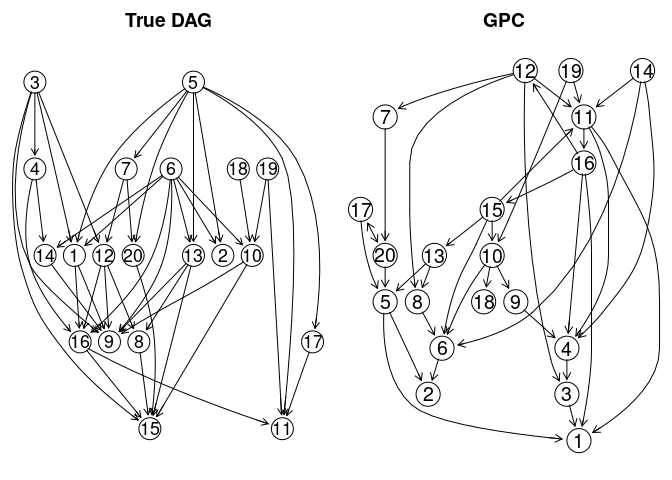
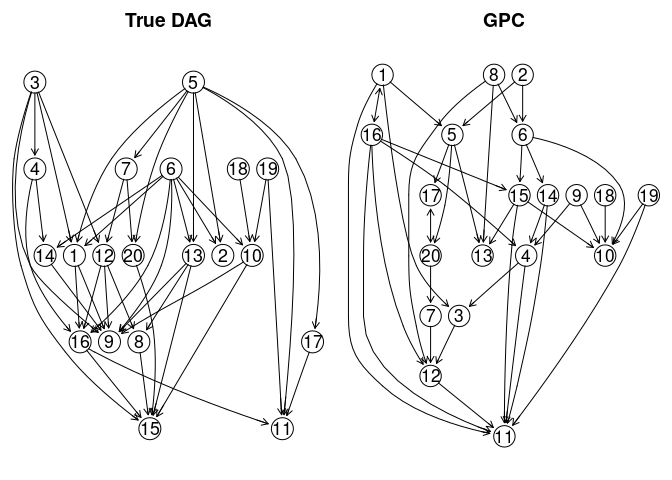
update

diff --git a/Demo/Demo.md b/Demo/Demo.md
@@ -248,7 +248,125 @@ GPCfit <- pc(suffStat = list(C = cor(ordinal_data), n = N),
              alpha = 0.05,
              indepTest = gaussCItest,
              labels = colnames(ordinal_data))
+# GPC algorithm (significance level: 0.05) (bnlearn implementation)
+GPCfit <- amat(pc.stable(as.data.frame(ordinal_data), alpha = 0.05, test = "zf"))
 ```
+
+    ## Warning in vstruct.apply(arcs = arcs, vs = vs, nodes = nodes, debug = debug):
+    ## vstructure 4 -> 16 <- 12 is not applicable, because one or both arcs are
+    ## oriented in the opposite direction.
+
+    ## Warning in vstruct.apply(arcs = arcs, vs = vs, nodes = nodes, debug = debug):
+    ## vstructure 1 -> 16 <- 15 is not applicable, because one or both arcs are
+    ## oriented in the opposite direction.
+
+    ## Warning in vstruct.apply(arcs = arcs, vs = vs, nodes = nodes, debug = debug):
+    ## vstructure 7 -> 12 <- 11 is not applicable, because one or both arcs are
+    ## oriented in the opposite direction.
+
+    ## Warning in vstruct.apply(arcs = arcs, vs = vs, nodes = nodes, debug = debug):
+    ## vstructure 1 -> 16 <- 4 is not applicable, because one or both arcs are oriented
+    ## in the opposite direction.
+
+    ## Warning in vstruct.apply(arcs = arcs, vs = vs, nodes = nodes, debug = debug):
+    ## vstructure 3 -> 4 <- 14 is not applicable, because one or both arcs are oriented
+    ## in the opposite direction.
+
+    ## Warning in vstruct.apply(arcs = arcs, vs = vs, nodes = nodes, debug = debug):
+    ## vstructure 8 -> 6 <- 15 is not applicable, because one or both arcs are oriented
+    ## in the opposite direction.
+
+    ## Warning in vstruct.apply(arcs = arcs, vs = vs, nodes = nodes, debug = debug):
+    ## vstructure 10 -> 15 <- 11 is not applicable, because one or both arcs are
+    ## oriented in the opposite direction.
+
+    ## Warning in vstruct.apply(arcs = arcs, vs = vs, nodes = nodes, debug = debug):
+    ## vstructure 10 -> 19 <- 11 is not applicable, because one or both arcs are
+    ## oriented in the opposite direction.
+
+    ## Warning in vstruct.apply(arcs = arcs, vs = vs, nodes = nodes, debug = debug):
+    ## vstructure 8 -> 12 <- 11 is not applicable, because one or both arcs are
+    ## oriented in the opposite direction.
+
+    ## Warning in vstruct.apply(arcs = arcs, vs = vs, nodes = nodes, debug = debug):
+    ## vstructure 12 -> 8 <- 13 is not applicable, because one or both arcs are
+    ## oriented in the opposite direction.
+
+    ## Warning in vstruct.apply(arcs = arcs, vs = vs, nodes = nodes, debug = debug):
+    ## vstructure 5 -> 1 <- 16 is not applicable, because one or both arcs are oriented
+    ## in the opposite direction.
+
+    ## Warning in vstruct.apply(arcs = arcs, vs = vs, nodes = nodes, debug = debug):
+    ## vstructure 2 -> 5 <- 13 is not applicable, because one or both arcs are oriented
+    ## in the opposite direction.
+
+    ## Warning in vstruct.apply(arcs = arcs, vs = vs, nodes = nodes, debug = debug):
+    ## vstructure 6 -> 14 <- 11 is not applicable, because one or both arcs are
+    ## oriented in the opposite direction.
+
+    ## Warning in vstruct.apply(arcs = arcs, vs = vs, nodes = nodes, debug = debug):
+    ## vstructure 4 -> 16 <- 15 is not applicable, because one or both arcs are
+    ## oriented in the opposite direction.
+
+    ## Warning in vstruct.apply(arcs = arcs, vs = vs, nodes = nodes, debug = debug):
+    ## vstructure 11 -> 15 <- 13 is not applicable, because one or both arcs are
+    ## oriented in the opposite direction.
+
+    ## Warning in vstruct.apply(arcs = arcs, vs = vs, nodes = nodes, debug = debug):
+    ## vstructure 6 -> 8 <- 12 is not applicable, because one or both arcs are oriented
+    ## in the opposite direction.
+
+    ## Warning in vstruct.apply(arcs = arcs, vs = vs, nodes = nodes, debug = debug):
+    ## vstructure 5 -> 1 <- 11 is not applicable, because one or both arcs are oriented
+    ## in the opposite direction.
+
+    ## Warning in vstruct.apply(arcs = arcs, vs = vs, nodes = nodes, debug = debug):
+    ## vstructure 4 -> 14 <- 6 is not applicable, because one or both arcs are oriented
+    ## in the opposite direction.
+
+    ## Warning in vstruct.apply(arcs = arcs, vs = vs, nodes = nodes, debug = debug):
+    ## vstructure 4 -> 9 <- 10 is not applicable, because one or both arcs are oriented
+    ## in the opposite direction.
+
+    ## Warning in vstruct.apply(arcs = arcs, vs = vs, nodes = nodes, debug = debug):
+    ## vstructure 1 -> 3 <- 12 is not applicable, because one or both arcs are oriented
+    ## in the opposite direction.
+
+    ## Warning in vstruct.apply(arcs = arcs, vs = vs, nodes = nodes, debug = debug):
+    ## vstructure 1 -> 16 <- 12 is not applicable, because one or both arcs introduce
+    ## cycles in the graph.
+
+    ## Warning in vstruct.apply(arcs = arcs, vs = vs, nodes = nodes, debug = debug):
+    ## vstructure 3 -> 1 <- 5 is not applicable, because one or both arcs are oriented
+    ## in the opposite direction.
+
+    ## Warning in vstruct.apply(arcs = arcs, vs = vs, nodes = nodes, debug = debug):
+    ## vstructure 9 -> 4 <- 11 is not applicable, because one or both arcs are oriented
+    ## in the opposite direction.
+
+    ## Warning in vstruct.apply(arcs = arcs, vs = vs, nodes = nodes, debug = debug):
+    ## vstructure 5 -> 2 <- 6 is not applicable, because one or both arcs are oriented
+    ## in the opposite direction.
+
+    ## Warning in vstruct.apply(arcs = arcs, vs = vs, nodes = nodes, debug = debug):
+    ## vstructure 10 -> 15 <- 16 is not applicable, because one or both arcs are
+    ## oriented in the opposite direction.
+
+    ## Warning in vstruct.apply(arcs = arcs, vs = vs, nodes = nodes, debug = debug):
+    ## vstructure 13 -> 15 <- 16 is not applicable, because one or both arcs are
+    ## oriented in the opposite direction.
+
+    ## Warning in vstruct.apply(arcs = arcs, vs = vs, nodes = nodes, debug = debug):
+    ## vstructure 3 -> 4 <- 9 is not applicable, because one or both arcs are oriented
+    ## in the opposite direction.
+
+    ## Warning in vstruct.apply(arcs = arcs, vs = vs, nodes = nodes, debug = debug):
+    ## vstructure 10 -> 15 <- 13 is not applicable, because one or both arcs are
+    ## oriented in the opposite direction.
+
+    ## Warning in vstruct.apply(arcs = arcs, vs = vs, nodes = nodes, debug = debug):
+    ## vstructure 12 -> 16 <- 15 is not applicable, because one or both arcs are
+    ## oriented in the opposite direction.
 
 ![](Demo_files/figure-markdown_github/unnamed-chunk-12-1.png)
 
@@ -258,18 +376,18 @@ comparePatterns(GPCfit,trueDAG) # hard version
 ```
 
     ##       SHD        TP        FP        TN        FN Precision       TPR     FPR_N 
-    ##     35.00     16.00     20.00    139.00     15.00      0.44      0.38      0.14 
+    ##     39.00     12.00     24.00    139.00     15.00      0.33      0.29      0.16 
     ##     FPR_P 
-    ##      0.48
+    ##      0.57
 
 ``` r
 comparePatterns(GPCfit,trueDAG,hardP2P = FALSE) # soft version
 ```
 
     ##       SHD        TP        FP        TN        FN Precision       TPR     FPR_N 
-    ##     33.50     17.50     18.50    139.00     15.00      0.49      0.42      0.12 
+    ##     37.50     13.50     22.50    139.00     15.00      0.38      0.32      0.15 
     ##     FPR_P 
-    ##      0.44
+    ##      0.54
 
 -   RPC (Harris and Drton, 2013; Cui et al., 2018)
 
